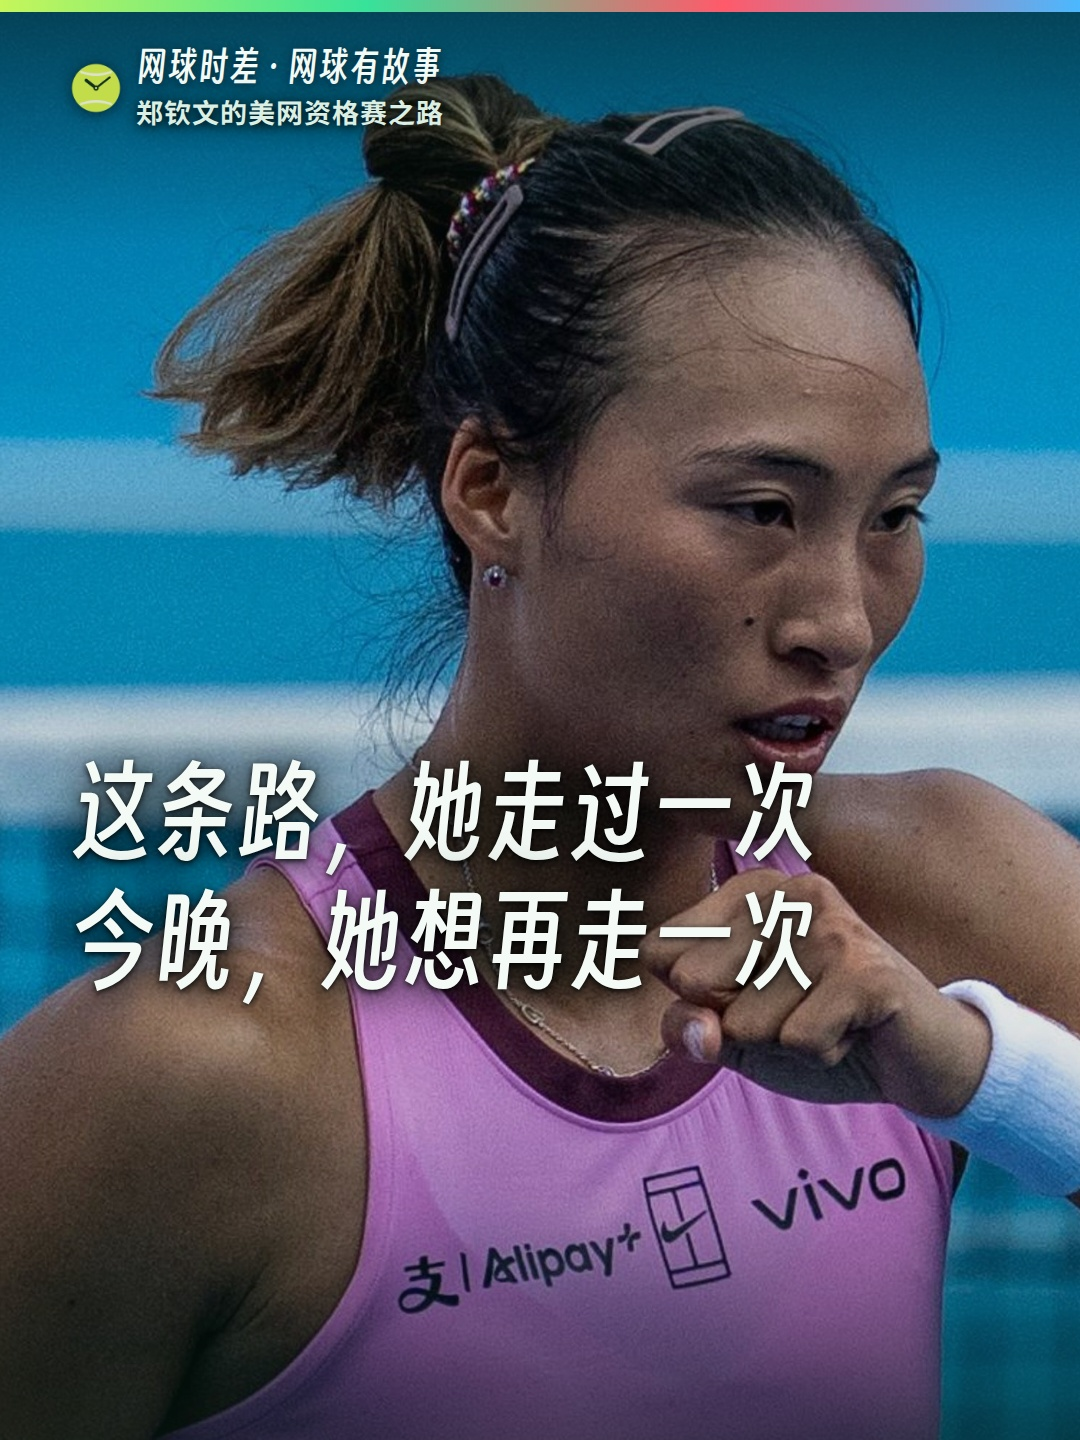
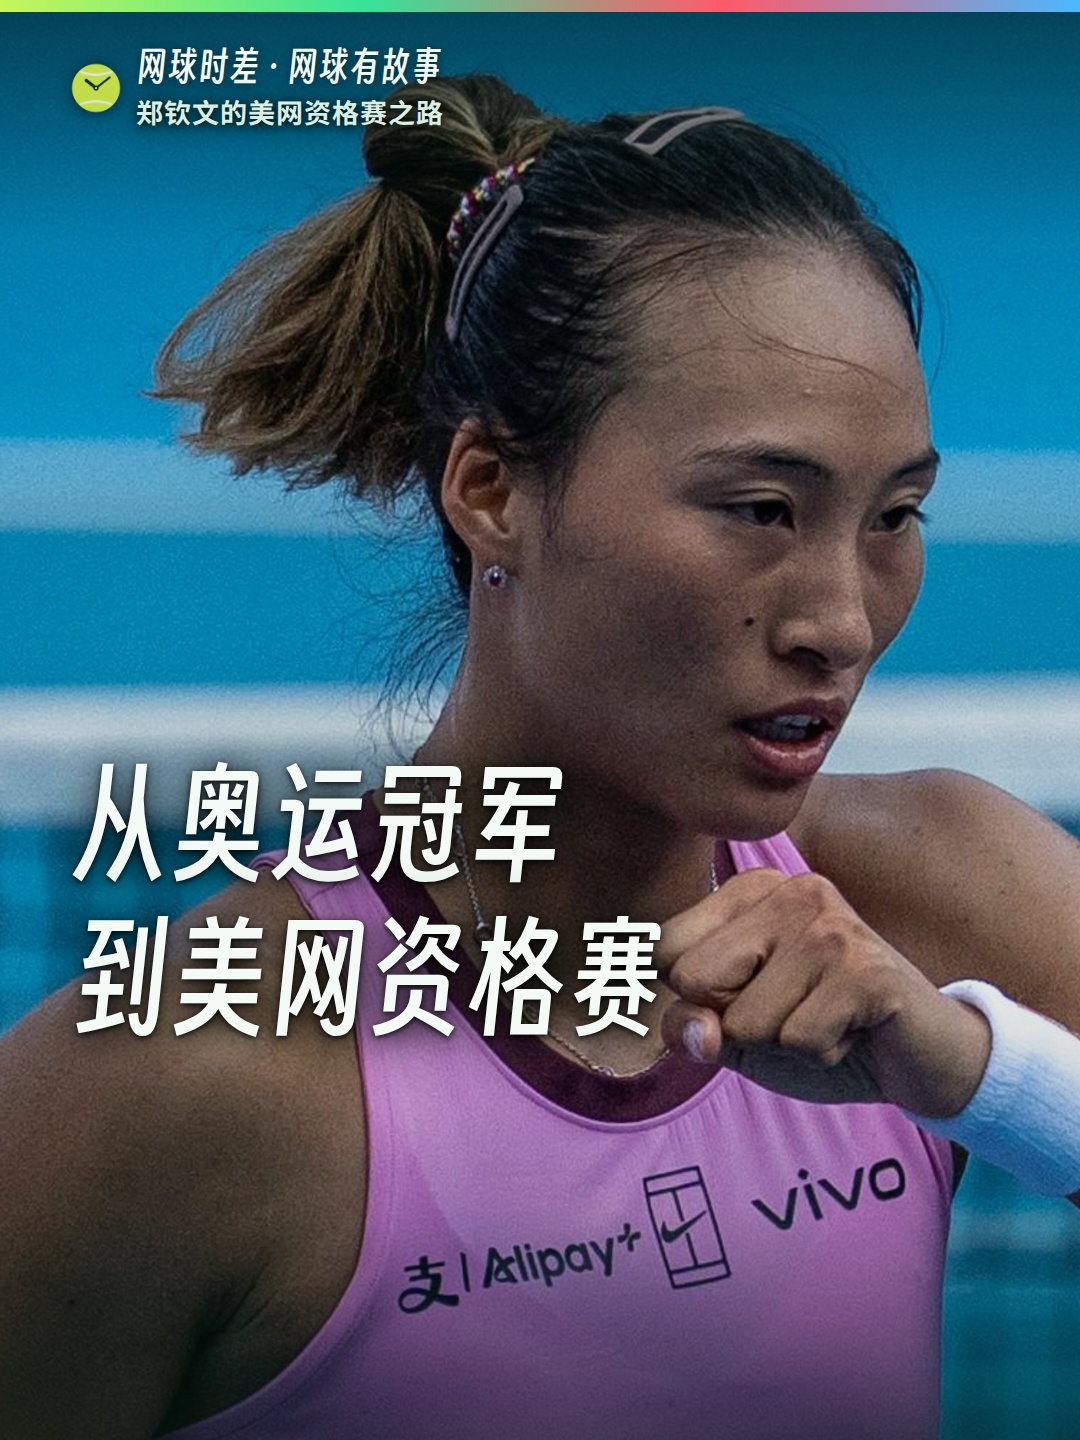
reel: render zheng-us-open-outlook

Changed region(s): [[0.0611, 0.5, 0.7639, 0.75]]

diff --git a/output/2026-08-24/reel/zheng-us-open-outlook/copy.html b/output/2026-08-24/reel/zheng-us-open-outlook/copy.html
@@ -42,31 +42,39 @@
     <p class="sub">标题和正文已分开，可直接粘贴到发布页。</p>
     <section>
       <div class="label"><span>标题</span><button type="button" data-copy="title">复制标题</button></div>
-      <textarea id="title" readonly>8.24 网球有故事 | 她的美网资格赛之路</textarea>
+      <textarea id="title" readonly>8.24 网球有故事 | 她要把名字打回正赛</textarea>
     </section>
     <section>
       <div class="label"><span>正文</span><button type="button" data-copy="body">复制正文</button></div>
-      <textarea id="body" readonly>郑钦文今晚北京时间十一点从美网资格赛第一轮打起，对手尤晓迪。这是她生涯第二次打大满贯资格赛。
+      <textarea id="body" readonly>两年前，郑钦文站上巴黎奥运最高领奖台。现在，世界第127的她，必须从美网资格赛重新开始。
 
-上一次是 2022 年澳网：三轮资格赛全部拿下，决赛轮对本玉真唯苦战两个半小时，六比三、六比七、六比三；过关之后正赛第一轮对萨斯诺维奇，抢七拿下，那是她生涯第一场大满贯正赛胜利。那一年她十九岁。
+这不是突然的坠落。
 
-四年后的这条路，签表已经摆在这儿了：
+右肘疼痛从2024年温网前就已经出现。她坚持比赛，直到2025年7月接受右肘关节镜手术，并退出当年的美网。两个月后，她在北京第一次复出，赢了两场，右肘却再次疼到无法继续，第三轮中途退赛。
 
-📍 第一轮：尤晓迪。她今年四月才拿下六安站冠军，生涯第一个这个级别的冠军，也是靠这个冠军才重新打回大满贯资格赛的门槛。
+此后，武汉、全运会、2026年澳网，她接连缺席。直到今年2月多哈，她才第二次回到赛场。复出首战，20记ACE、43个制胜分，逆转肯宁——那像一声宣告：郑钦文还没有结束。
 
-📍 可能的第二轮：布雷尔或马烨欣的胜者。布雷尔生涯最高排名第 42，去年四月在比莉·简·金杯赛场上十字韧带撕裂退赛，这次靠保护排名 140 位进的资格赛；马烨欣去年闯进个人第一个 125 级别赛事决赛。
+但复出不等于立刻回到从前。2026年11胜13负，世界排名跌到第127，也因此错过美网正赛直接入围。三轮，三道门，她必须全部赢下来。
 
-📍 可能的第三轮：马里诺或费罗这一路的胜者。马里诺 2013 年 22 岁时因抑郁症和网络暴力宣布退役，2018 年才复出，今年 35 岁还在打——这场辛辛那提站前她刚在多伦多站资格赛首轮输给森梅兹，七比五、六比四。费罗排名曾经跌到 368，今年四月才拿回复出以来第一个冠军。
+第一轮是尤晓迪，世界第198，四月刚拿下六安W100冠军，决赛打满3小时08分。
 
-签表上这几条线，讲的都是同一件事：从谷底往回爬。
+如果过关，第二轮将面对布雷尔或马烨欣。布雷尔最高世界第42，右膝十字韧带重伤后靠保护排名140参赛；马烨欣世界第181，去年首次打进WTA125决赛。
 
-四年前，郑钦文也是这样一路从资格赛走出去的。这一次，她还能再走一次吗？
+决胜轮另一侧还有完整的四人分支：20岁的普里丹基纳对本赛季已经32胜的法雷；35岁、发球和正手极具冲击力的马里诺，对速度快、变化多的费罗。
+
+七个人，不是七个空名字。每个人都有自己的经历、武器和必须赢球的理由。
+
+四年前，19岁的郑钦文第一次参加大满贯资格赛，连赢三场走进澳网正赛，随即赢下个人首场大满贯正赛。四年后，金牌和世界第四都不能替她赢下现在的一分。
+
+伤病把她送回起点，但起点不是终点。
+
+这一次，她能把“郑钦文”这个名字，一分一分打回美网正赛吗？
 
 #网球 #郑钦文 #美网 #网球时差</textarea>
     </section>
     <section>
       <div class="label"><span>置顶评论</span><button type="button" data-copy="comment">复制评论</button></div>
-      <textarea id="comment" readonly>美网正赛的签表上，会不会有她的名字？</textarea>
+      <textarea id="comment" readonly>她能把自己的名字，一分一分打回正赛吗？</textarea>
     </section>
   </main>
   <div id="toast" role="status">已复制</div>
